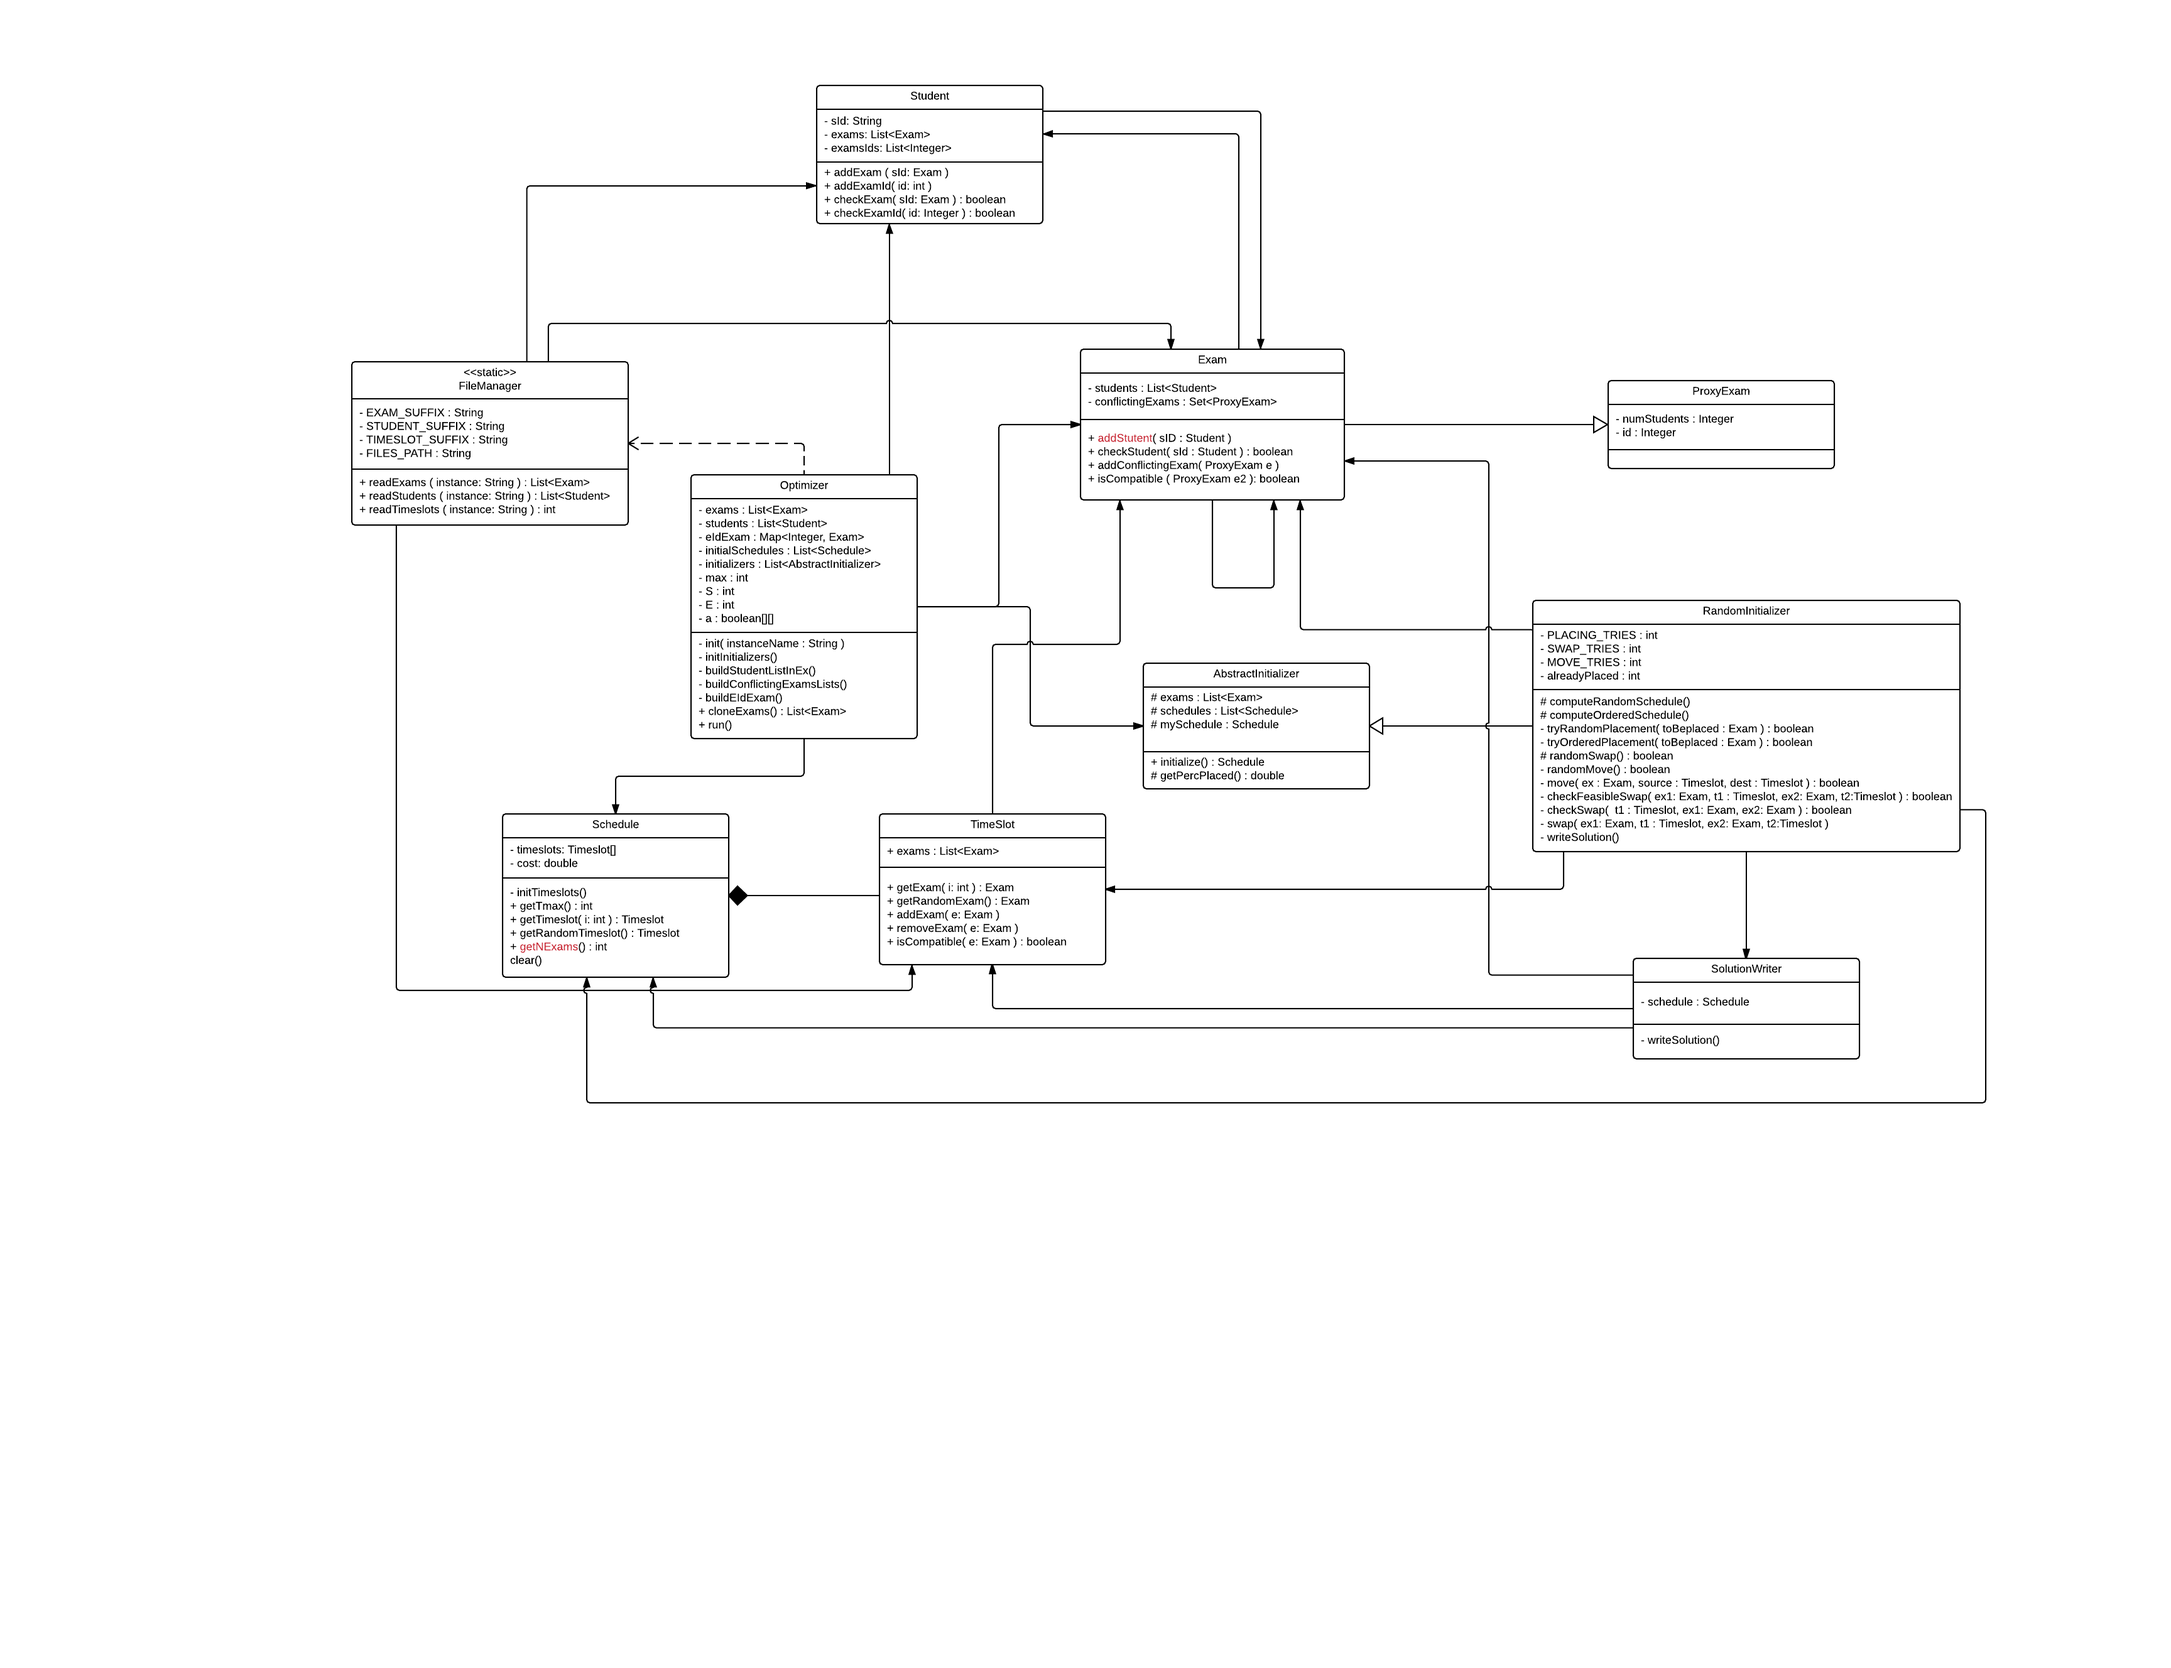
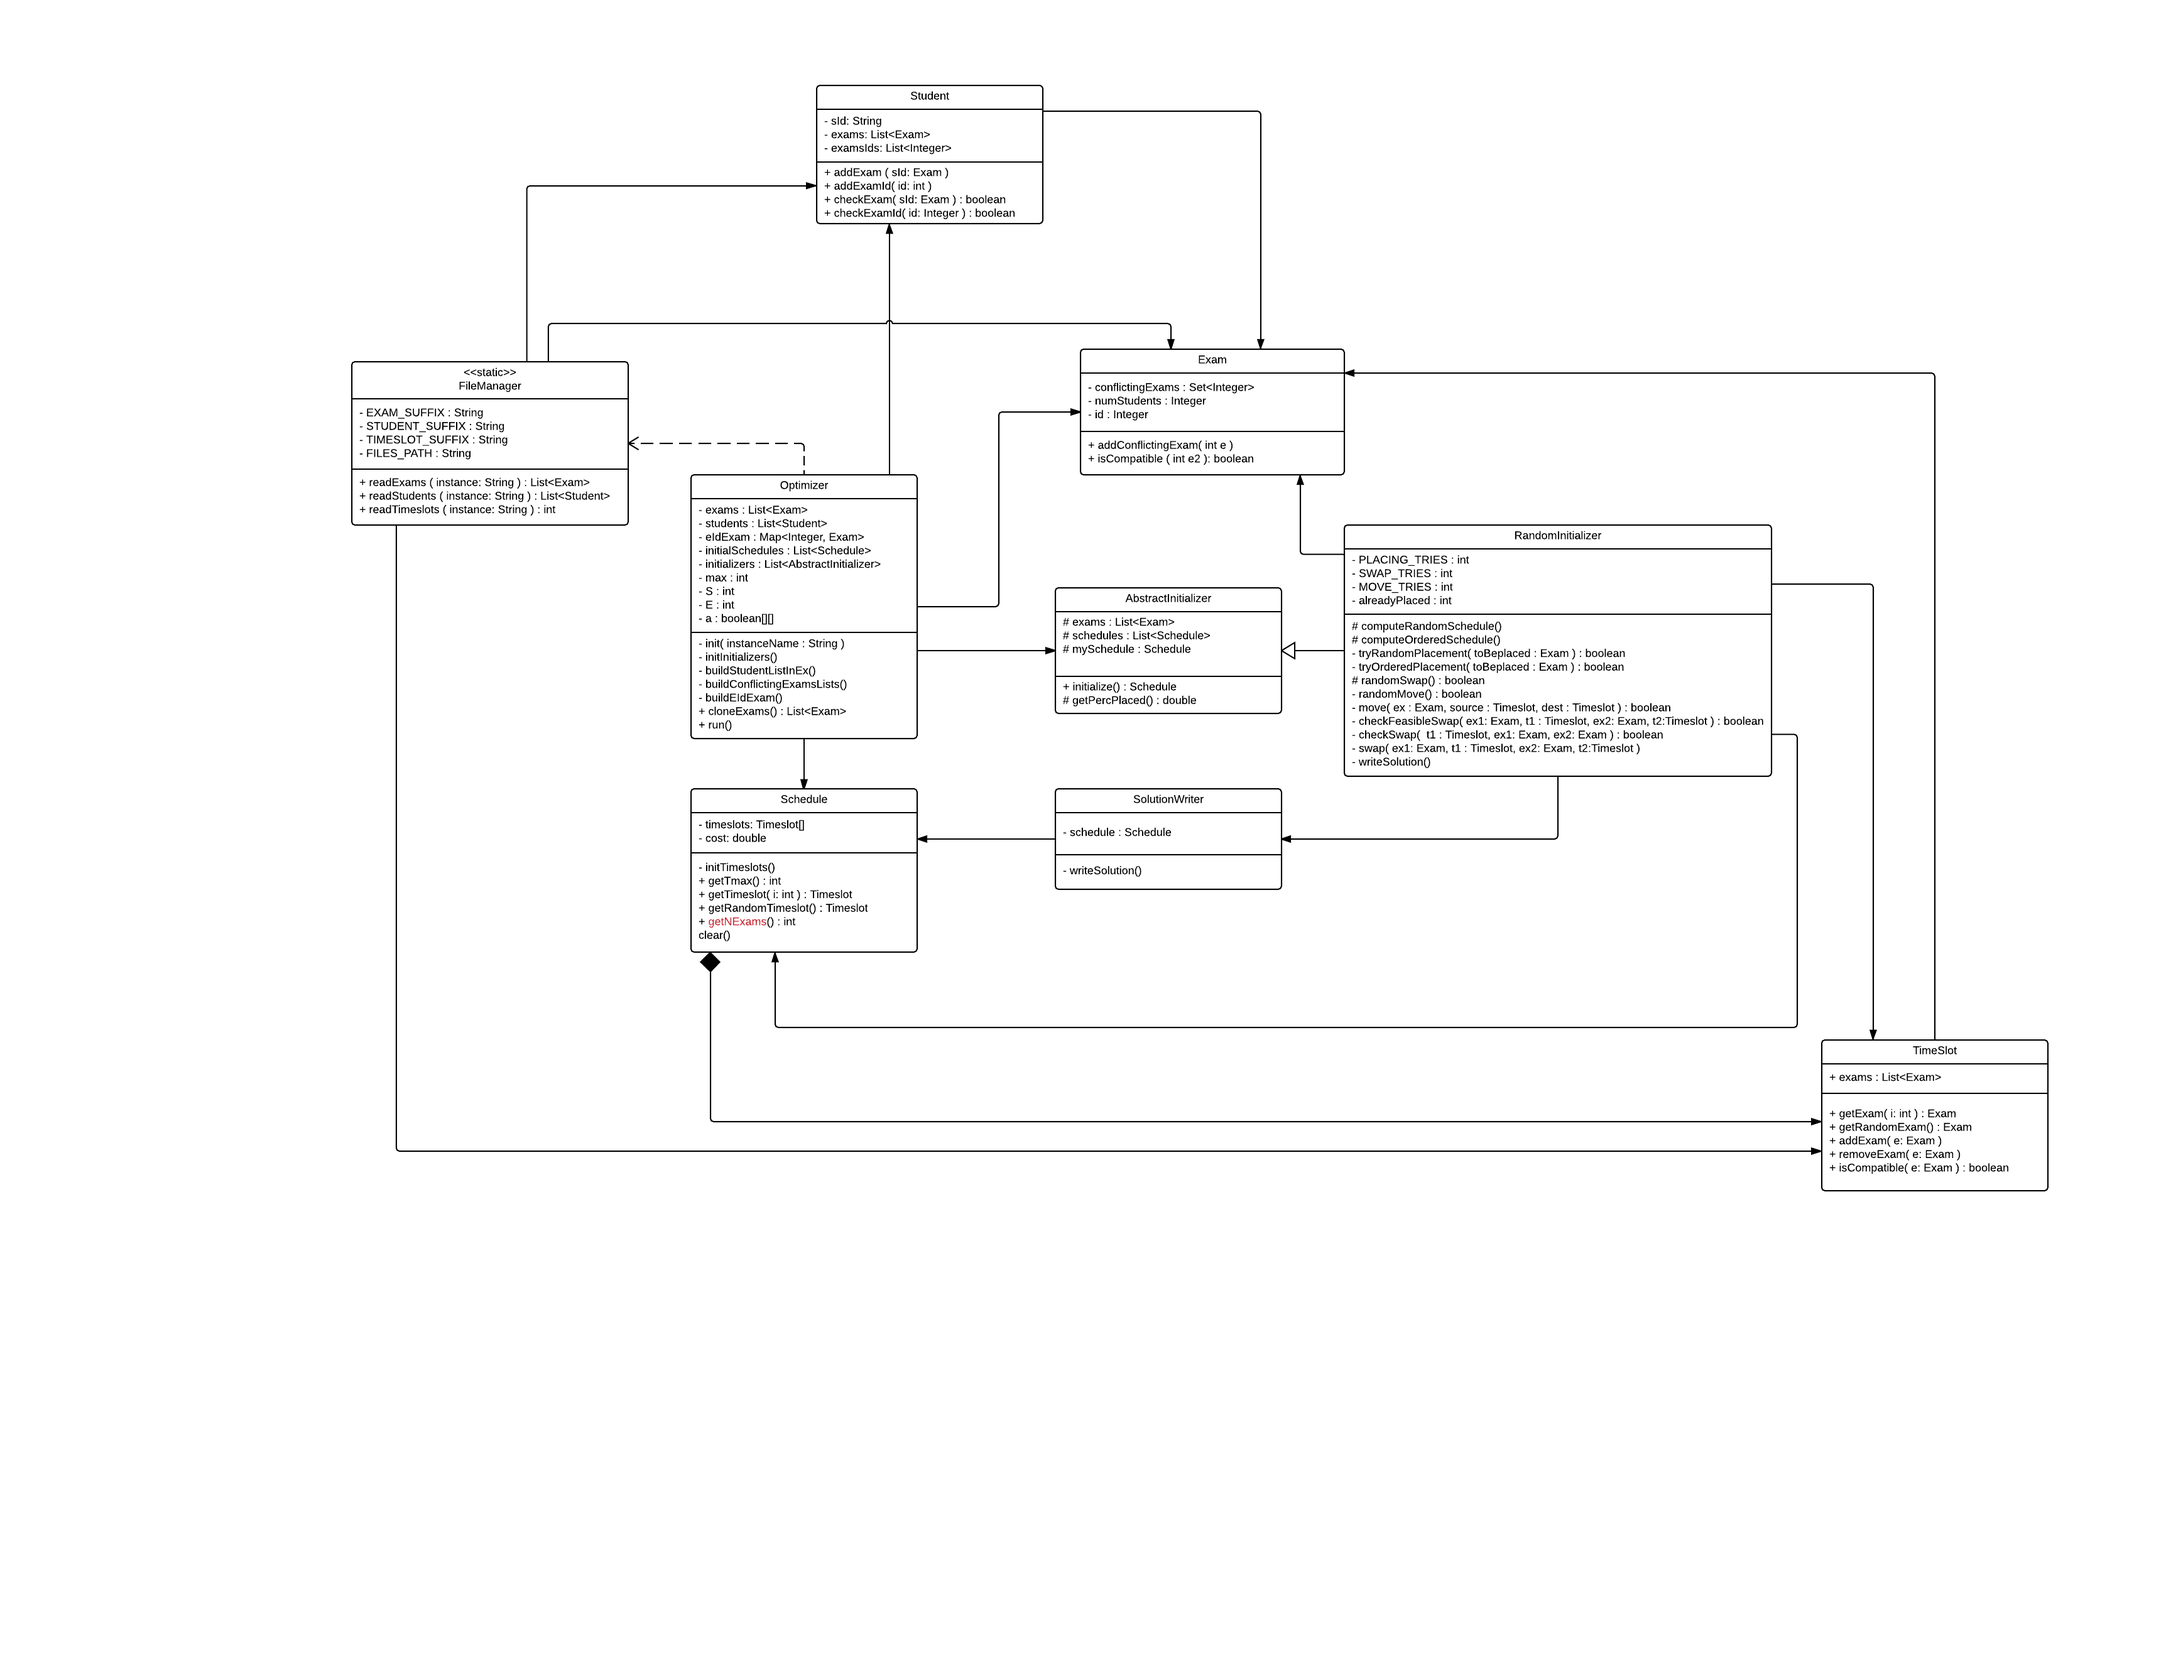
Commented out references to Student class in Exam.

diff --git a/Optimization/src/optimization/Exam.java b/Optimization/src/optimization/Exam.java
@@ -18,7 +18,7 @@ import java.util.Set;
  */
 public class Exam implements Comparable<Exam>, Cloneable {
 
-    private List<Student> students = new ArrayList<>();
+    //private List<Student> students = new ArrayList<>();
     // 2 exams are "conflicting" if at least one student is enrolled in both of 
     // them.(-> can't be placed in the same timeslot)
     private final Set<Integer> conflictingExams = new HashSet<>();
@@ -38,21 +38,21 @@ public class Exam implements Comparable<Exam>, Cloneable {
         return this.id;
     }
 
-    public void addStutent(Student sID) {
+    /*public void addStudent(Student sID) {
         this.students.add(sID);
     }
 
     public boolean checkStudent(Student sId) {
         return this.students.contains(sId);
-    }
+    }*/
 
     public void addConflictingExam(int eId) {
         this.conflictingExams.add(eId);
     }
 
-    public void setStudents(List<Student> students) {
+    /*public void setStudents(List<Student> students) {
         this.students = students;
-    }
+    }*/
 
     public Set<Integer> getConflictingExams() {
         return this.conflictingExams;
@@ -76,7 +76,7 @@ public class Exam implements Comparable<Exam>, Cloneable {
             clone.addConflictingExam(eId);
         }
         // Since it's useless for now... if we had to read it a method to clone students should be provided.
-        clone.setStudents(this.students);
+        //clone.setStudents(this.students);
         return clone;
     }
 

diff --git a/Optimization/src/optimization/Optimizer.java b/Optimization/src/optimization/Optimizer.java
@@ -92,7 +92,7 @@ public class Optimizer {
             examsIds = student.getExamsIds();
             for (int eId : examsIds) {
                 exam = eIdExam.get(eId);
-                exam.addStutent(student);    //In the future one of this two lines may be useless
+                //exam.addStudent(student);    //In the future one of this two lines may be useless
                 student.addExam(exam);
                 a[i][exams.indexOf(exam)] = true;
             }
